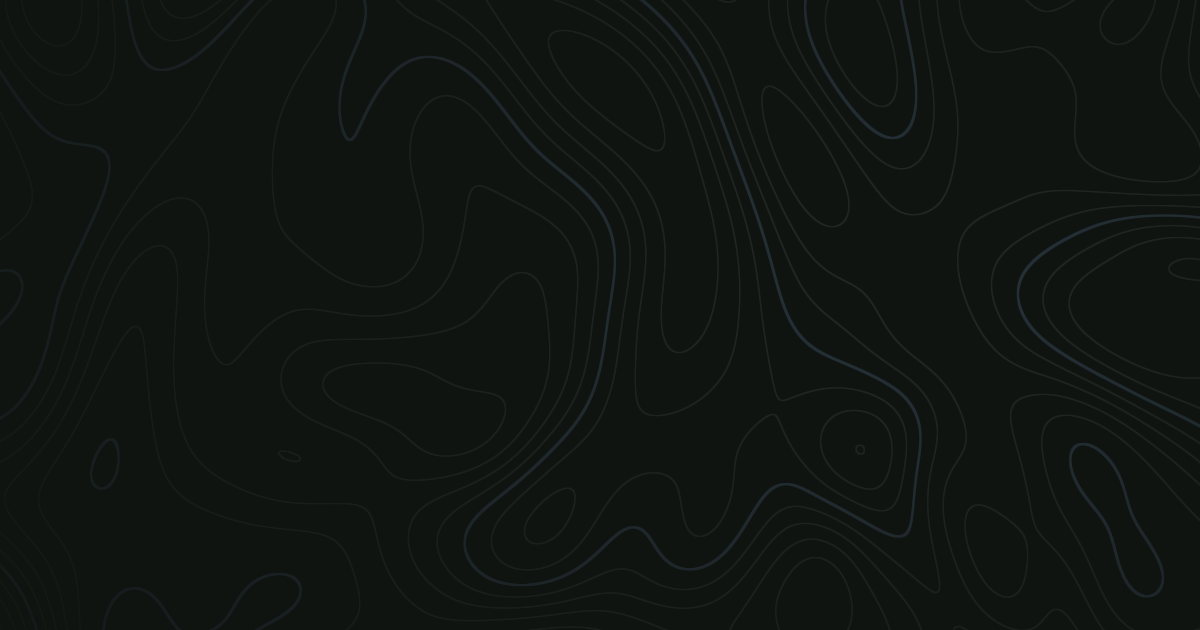
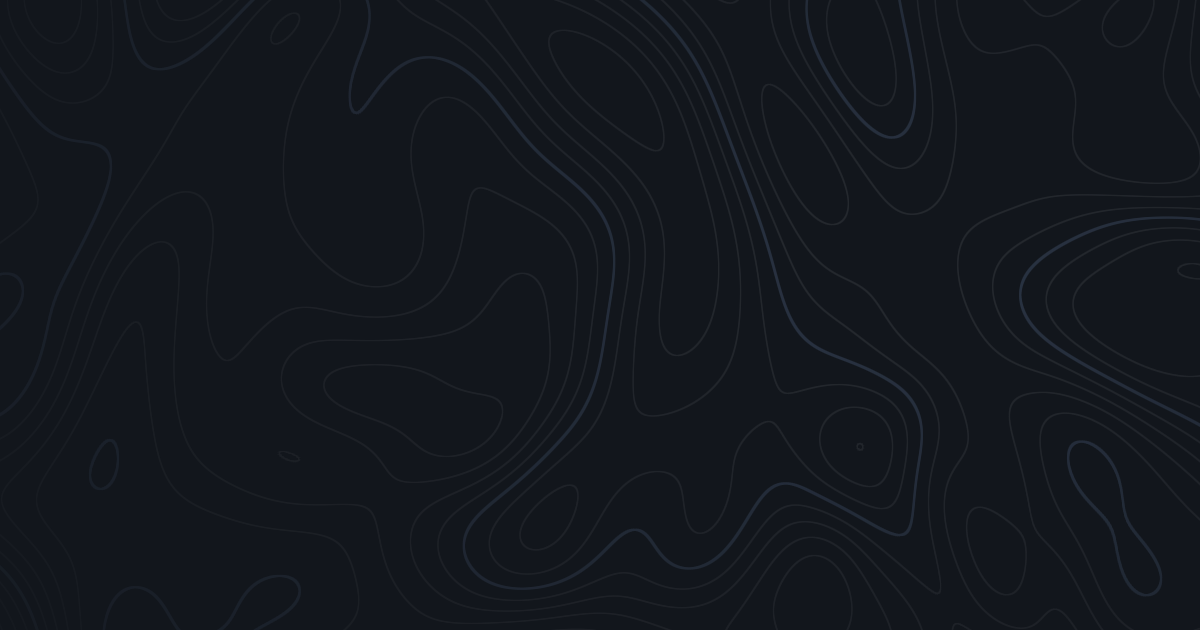
feat(seo): derive feeds, sitemap and OG images from published content

diff --git a/src/app/sitemap.ts b/src/app/sitemap.ts
@@ -36,12 +36,48 @@ export default function sitemap(): MetadataRoute.Sitemap {
       lastModified: now,
       changeFrequency: "yearly",
       priority: 0.3,
+      alternates: {
+        languages: {
+          es: `${baseUrl}/privacidad`,
+          en: `${baseUrl}/en/privacy`,
+        },
+      },
     },
     {
       url: `${baseUrl}/seguridad`,
       lastModified: now,
       changeFrequency: "yearly",
       priority: 0.3,
+      alternates: {
+        languages: {
+          es: `${baseUrl}/seguridad`,
+          en: `${baseUrl}/en/security`,
+        },
+      },
+    },
+    {
+      url: `${baseUrl}/en/privacy`,
+      lastModified: now,
+      changeFrequency: "yearly",
+      priority: 0.3,
+      alternates: {
+        languages: {
+          es: `${baseUrl}/privacidad`,
+          en: `${baseUrl}/en/privacy`,
+        },
+      },
+    },
+    {
+      url: `${baseUrl}/en/security`,
+      lastModified: now,
+      changeFrequency: "yearly",
+      priority: 0.3,
+      alternates: {
+        languages: {
+          es: `${baseUrl}/seguridad`,
+          en: `${baseUrl}/en/security`,
+        },
+      },
     },
   ];
 
@@ -56,7 +92,6 @@ export default function sitemap(): MetadataRoute.Sitemap {
     (locale) =>
       [
         "/work",
-        "/open-source",
         "/about",
         ...getPortfolio(locale).projects.map(
           (project) => `/work/${project.slug}`,

diff --git a/src/app/feed.xml/route.ts b/src/app/feed.xml/route.ts
@@ -1,5 +1,6 @@
 import { SITE } from "@/lib/constants";
 import { getAllPosts } from "@/lib/mdx";
+import { escapeXml } from "@/lib/xml";
 
 export async function GET() {
   const posts = getAllPosts();
@@ -9,7 +10,7 @@ export async function GET() {
 <rss version="2.0" xmlns:atom="http://www.w3.org/2005/Atom">
   <channel>
     <title>roddcode — Architecture Essays</title>
-    <description>High-signal, low-noise architecture essays.</description>
+    <description>Notes on building software: backend, integrations and applied AI.</description>
     <link>${baseUrl}</link>
     <language>en-us</language>
     <lastBuildDate>${new Date().toUTCString()}</lastBuildDate>
@@ -18,8 +19,8 @@ export async function GET() {
       .map(
         (post) => `
     <item>
-      <title>${post.title}</title>
-      <description>${post.summary}</description>
+      <title>${escapeXml(post.title)}</title>
+      <description>${escapeXml(post.summary)}</description>
       <link>${baseUrl}/writing/${post.slug}</link>
       <guid>${baseUrl}/writing/${post.slug}</guid>
       <pubDate>${new Date(post.date).toUTCString()}</pubDate>

diff --git a/src/app/og/render.tsx b/src/app/og/render.tsx
@@ -13,8 +13,8 @@ import { ImageResponse } from "next/og";
  * declaran acá con los valores de `globals.css`.
  */
 
-const NIGHT_INK = "#e8eae5";
-const NIGHT_MUTED = "#adb4ae";
+const NIGHT_INK = "#e8eaf0";
+const NIGHT_MUTED = "#b1b8c2";
 const ACCENT_NIGHT = "#5b9bff";
 
 type Lang = "es" | "en";
@@ -73,7 +73,7 @@ export async function ogImage(lang: Lang) {
         height: "100%",
         display: "flex",
         position: "relative",
-        backgroundColor: "#0f1411",
+        backgroundColor: "#12161c",
         fontFamily: "Geist",
       }}
     >

diff --git a/src/lib/xml.ts b/src/lib/xml.ts
@@ -1,0 +1,14 @@
+/** Escape text nodes and quoted attributes before constructing XML. */
+export function escapeXml(value: string): string {
+  return value.replace(
+    /[&<>"']/g,
+    (character) =>
+      ({
+        "&": "&amp;",
+        "<": "&lt;",
+        ">": "&gt;",
+        '"': "&quot;",
+        "'": "&apos;",
+      })[character] ?? character,
+  );
+}

diff --git a/src/app/og/stage/page.tsx b/src/app/og/stage/page.tsx
@@ -27,7 +27,7 @@ export default function OgStage() {
         inset: 0,
         width: 1200,
         height: 630,
-        backgroundColor: "#0f1411",
+        backgroundColor: "#12161c",
       }}
     >
       <div
